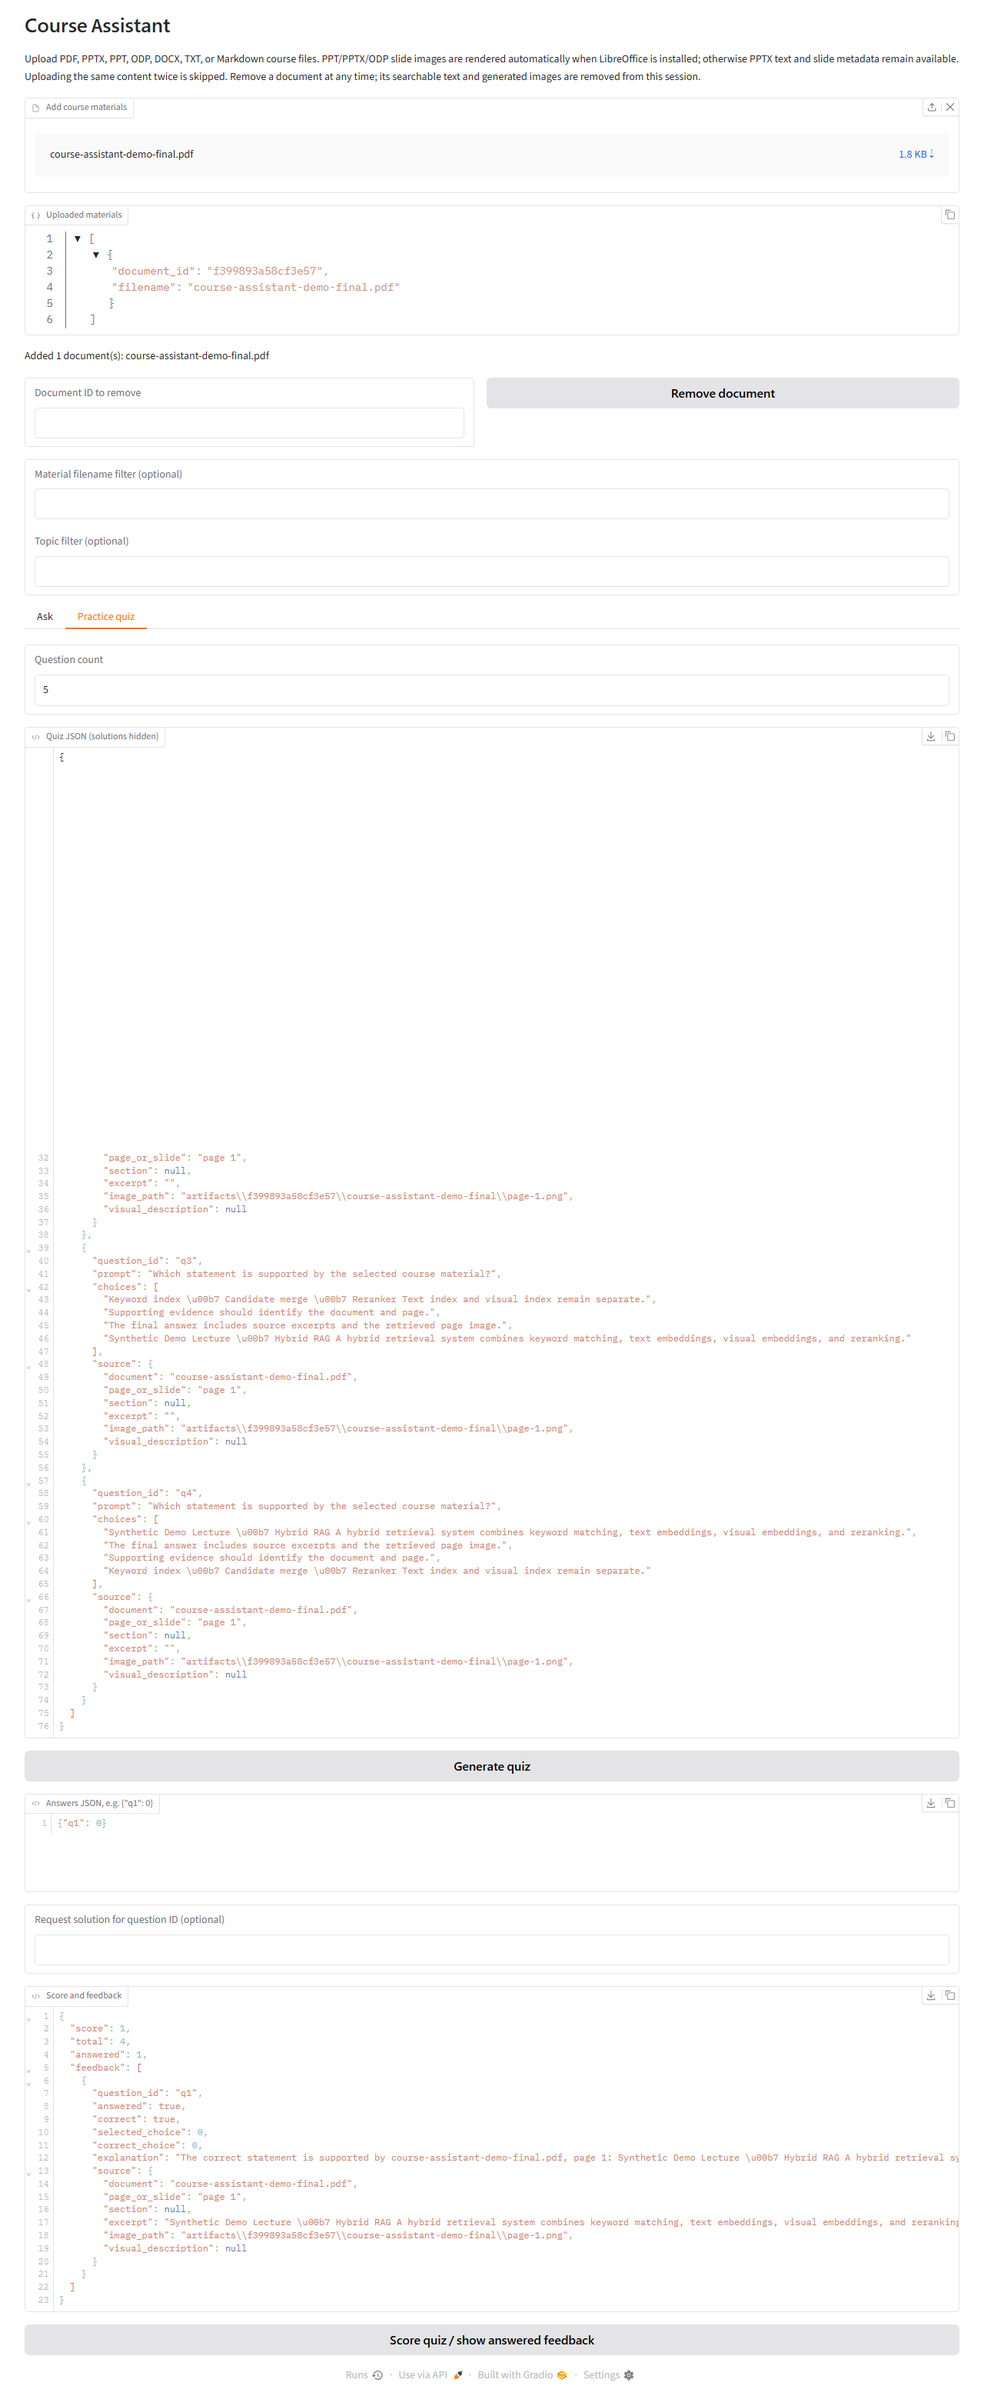
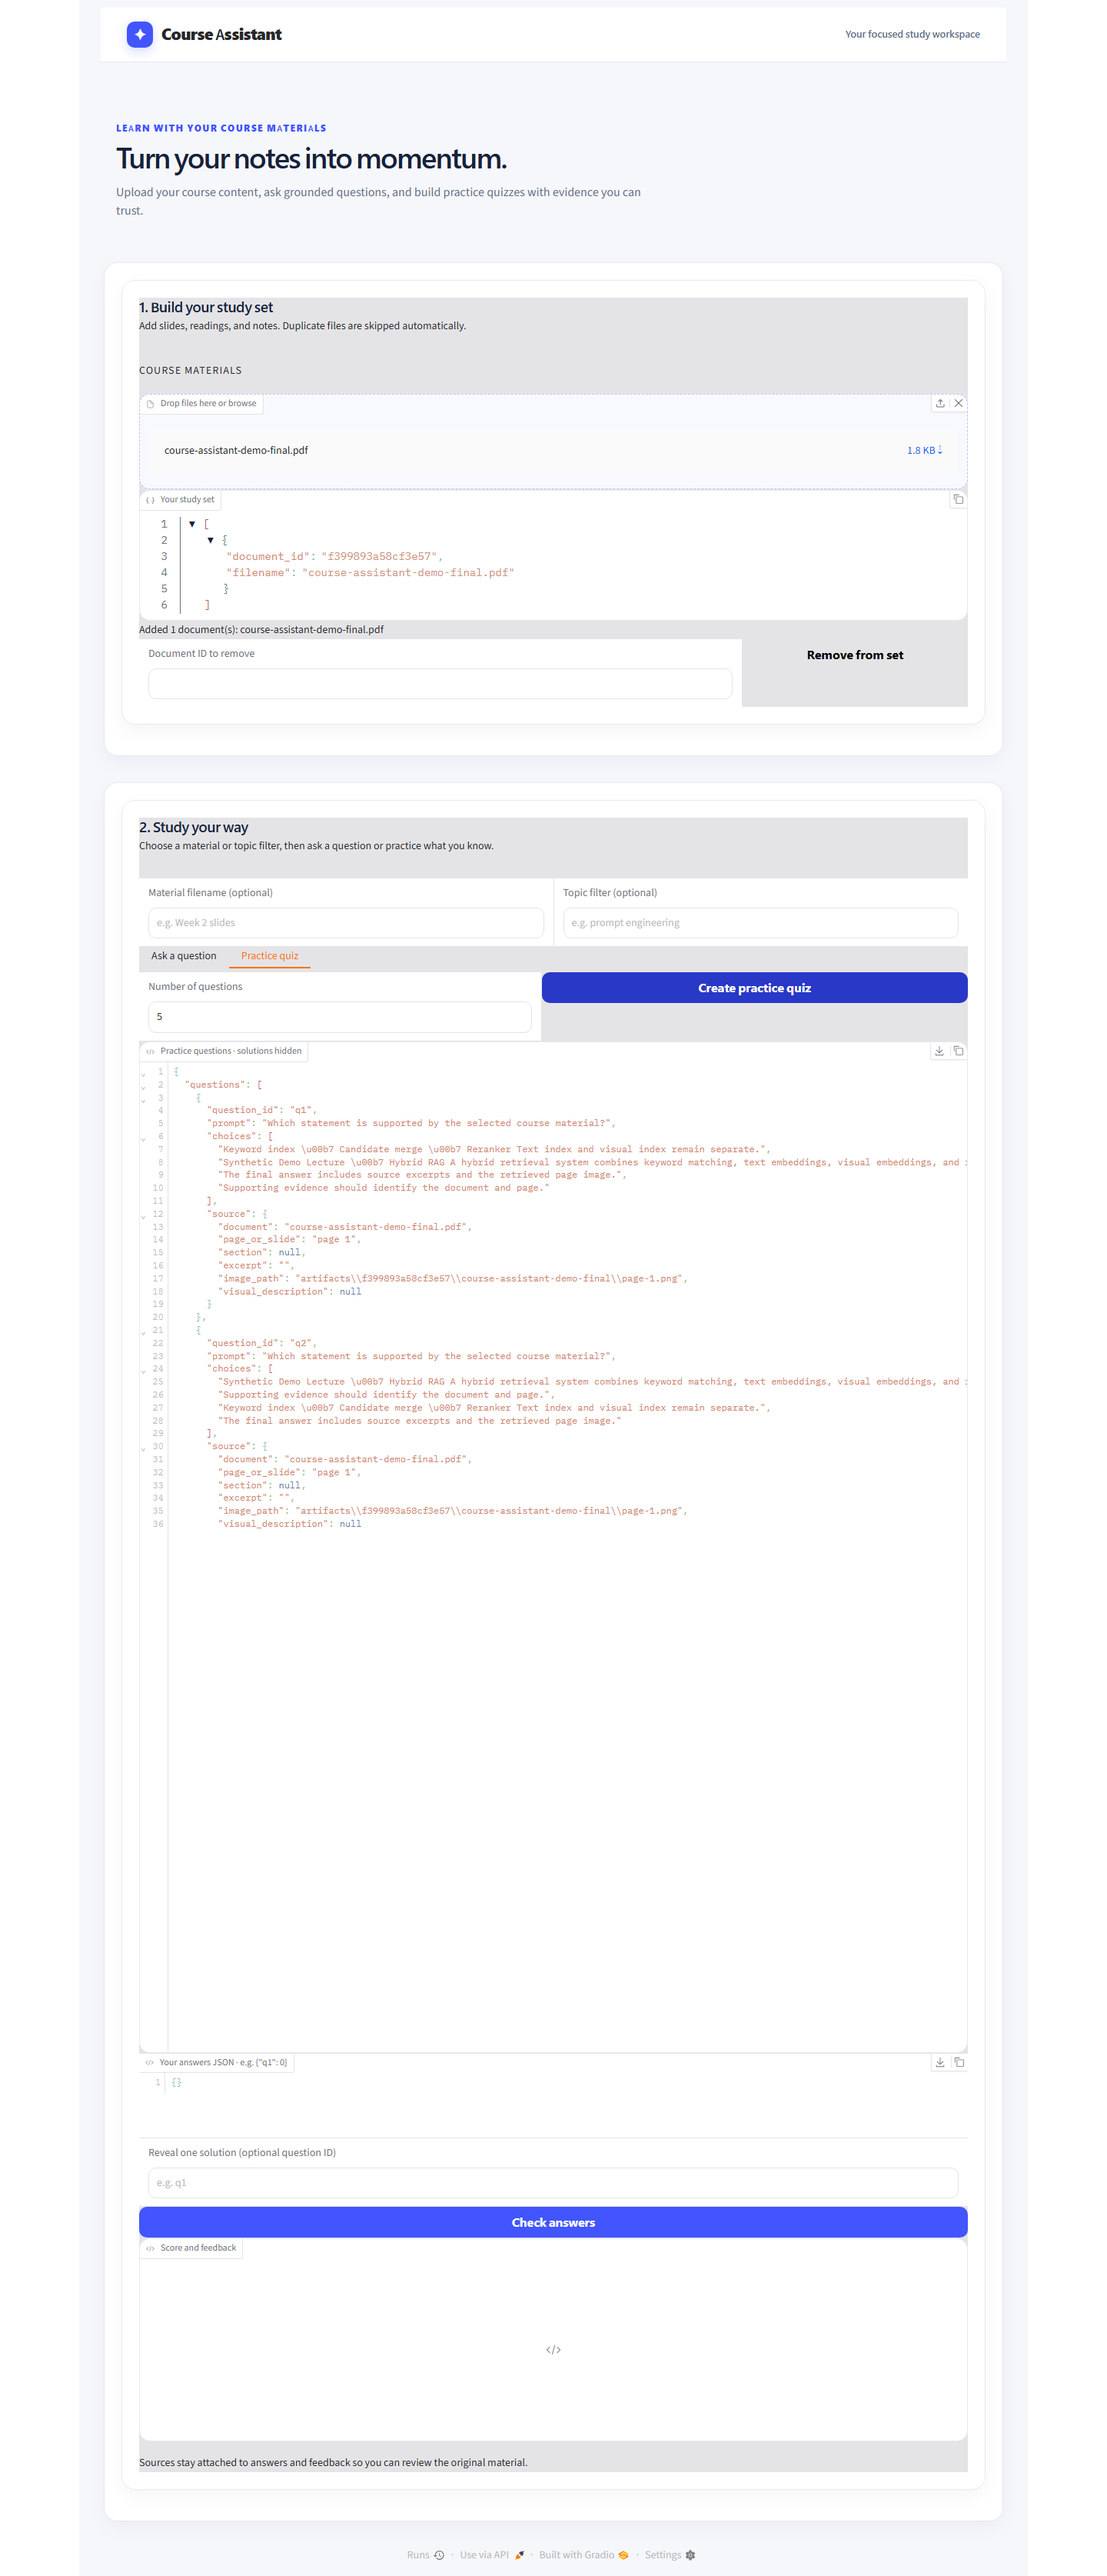
docs: refresh screenshots for study workspace

diff --git a/README.md b/README.md
@@ -139,7 +139,7 @@ The assignment question set, comparison protocol, saved results, and investigate
 
 ## Screenshots
 
-These screenshots were refreshed from the merged `main` application at commit `09ee77a` using a clearly labeled synthetic, non-course demo PDF. They demonstrate the live app UI without redistributing restricted Canvas content. Replace them with permitted course-material captures before submission if the team has approval.
+These screenshots were refreshed from the redesigned live `main` application at commit `9e144f7` using a clearly labeled synthetic, non-course demo PDF. They demonstrate the Quizlet-inspired study workspace, grounded answer flow, retrieved visual evidence, and practice-quiz interface without redistributing restricted Canvas content. Replace them with permitted course-material captures before submission if the team has approval.
 
 ### Answer with retrieved slide
 
